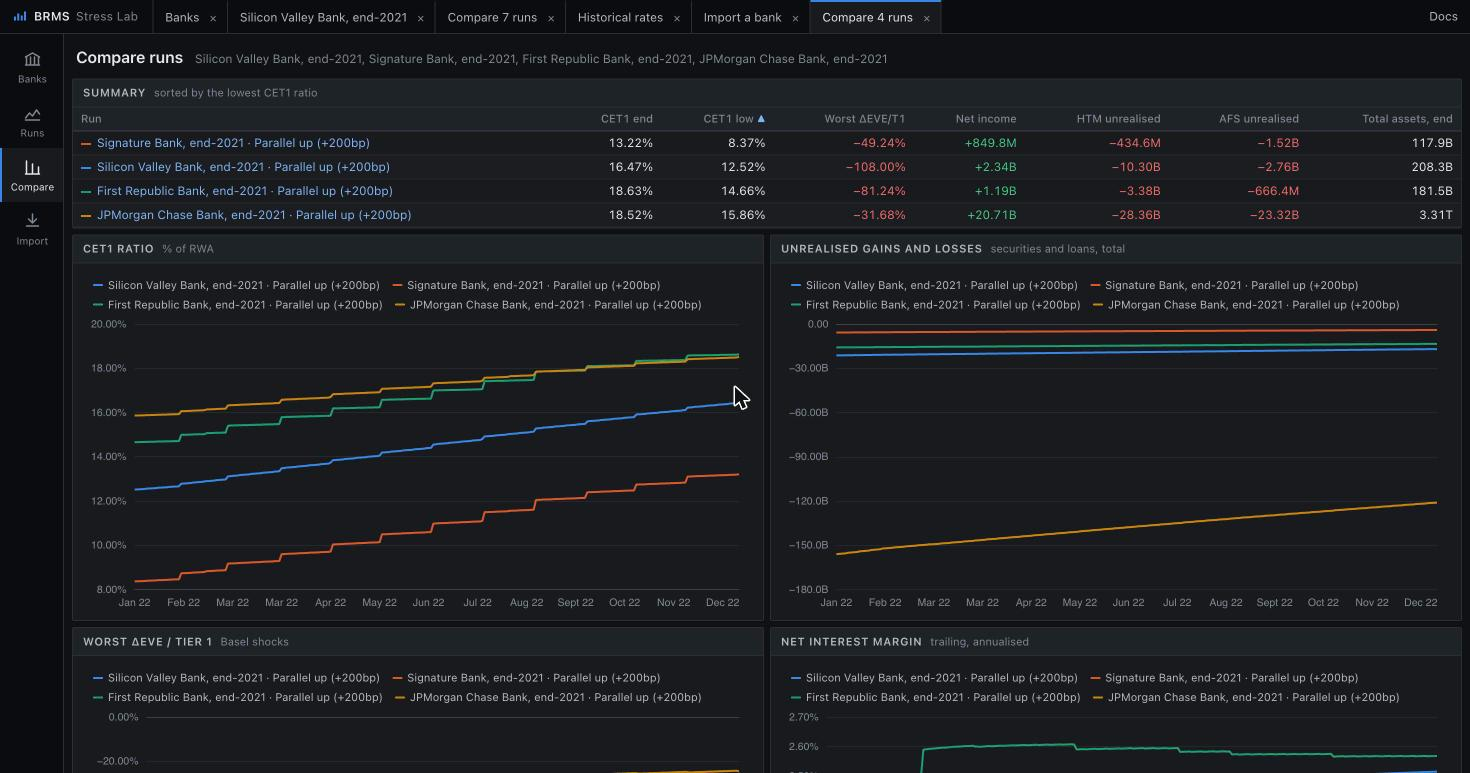
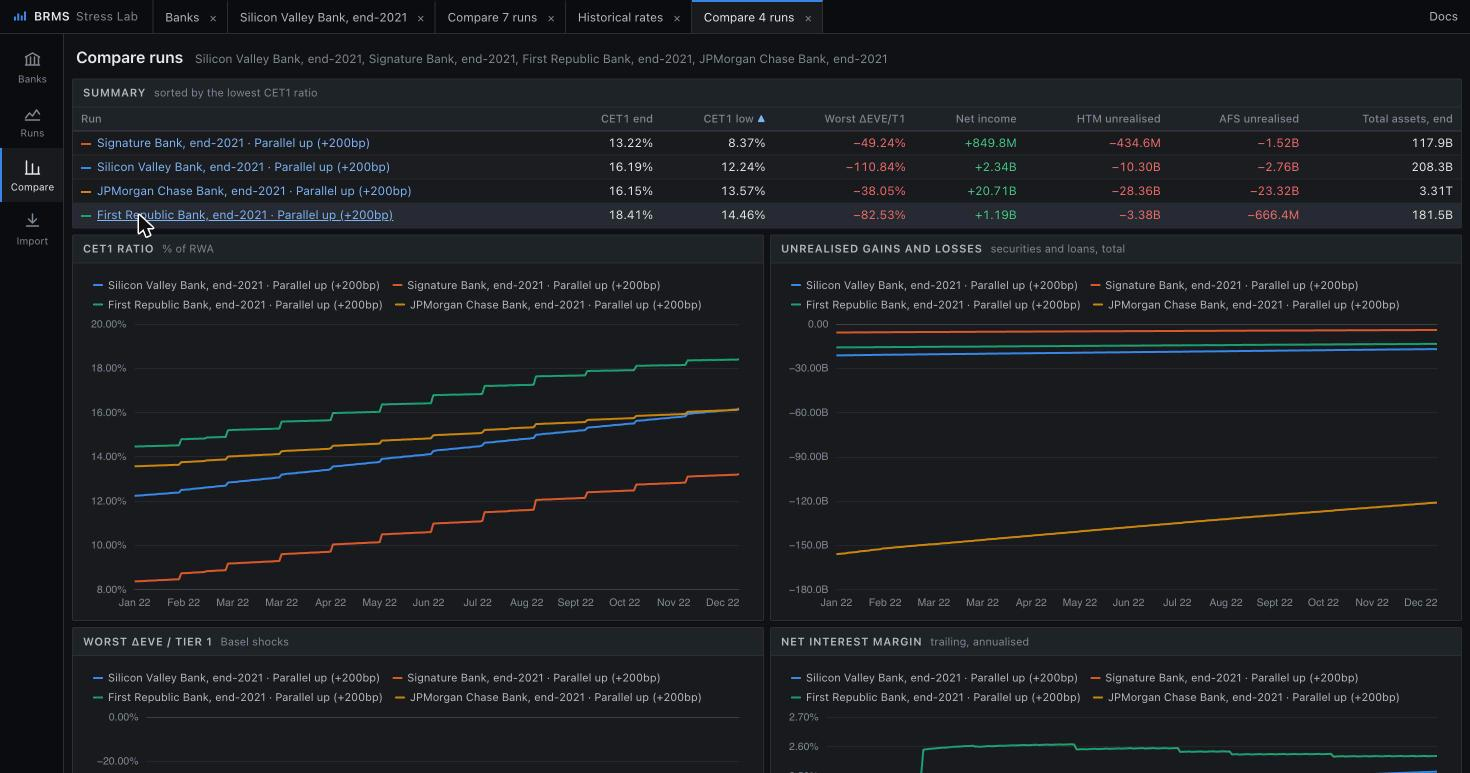
docs: numbers and screenshots after the intangibles change; journal screenshot

diff --git a/docs/lab/tutorials/basel-shocks.md b/docs/lab/tutorials/basel-shocks.md
@@ -36,8 +36,8 @@ finish. The summary table is sorted by each run's lowest CET1 ratio. Look at:
 - **HTM unrealised**: the parallel-up shock costs SVB −$10.3bn on HTM securities, and the
   actual path of 2022 cost −$12.7bn. The real 2022 was worse than the regulatory +200bp shock,
   because the 10-year yield rose about 240bp.
-- **Worst ΔEVE/T1**: SVB's economic value falls by about 100% of Tier 1 in the worst shock. That
-  makes it a clear outlier against the 15% threshold.
+- **Worst ΔEVE/T1**: SVB's economic value falls by more than 100% of Tier 1 in the worst shock.
+  That makes it a clear outlier against the 15% threshold.
 
 ![Seven scenarios for SVB](../../images/lab/compare.jpg)
 
@@ -62,9 +62,9 @@ its bank:
 | Bank | Lowest CET1 ratio | Worst ΔEVE / Tier 1 | HTM unrealised | AFS unrealised |
 |---|---:|---:|---:|---:|
 | Signature Bank | **8.4%** | −49% | −$0.4bn | −$1.5bn |
-| Silicon Valley Bank | 12.5% | **−108%** | −$10.3bn | −$2.8bn |
-| First Republic Bank | 14.7% | −81% | −$3.4bn | −$0.7bn |
-| JPMorgan Chase Bank | 15.9% | −32% | −$28.4bn | −$23.3bn |
+| Silicon Valley Bank | 12.2% | **−111%** | −$10.3bn | −$2.8bn |
+| JPMorgan Chase Bank | 13.6% | −38% | −$28.4bn | −$23.3bn |
+| First Republic Bank | 14.5% | −83% | −$3.4bn | −$0.7bn |
 
 How to read it:
 
@@ -74,8 +74,9 @@ How to read it:
   securities make it the most exposed, losing more than its whole Tier 1 capital. First Republic's
   exposure is in long fixed-rate mortgages, which are loans rather than securities: they show up in
   EVE and in loan unrealised losses, not in HTM or AFS.
-- **Size.** JPMorgan's dollar losses are the largest, but against its capital they are the
-  smallest.
+- **Size.** JPMorgan's dollar losses are the largest, but against its capital its economic-value
+  loss is the smallest. Its CET1 ratio is lower than First Republic's because $46bn of goodwill
+  and other intangibles is deducted from its capital.
 
 !!! warning "Deposits in ΔEVE"
     The lab treats deposits as repricing overnight when it computes EVE, so deposits add no value

diff --git a/docs/lab/tutorials/svb-2022.md b/docs/lab/tutorials/svb-2022.md
@@ -47,14 +47,14 @@ Click **Run scenario**.
 | HTM unrealised loss | about −$1bn | **−$12.7bn** (worst: −$14.7bn on 20 Oct) |
 | AFS unrealised loss | about −$0.1bn | **−$3.4bn** |
 | Net income for the year | | **+$2.2bn** |
-| CET1 ratio | 16.0% | **19.5%** |
+| CET1 ratio | 15.7% | **19.2%** |
 
 Look at the **Unrealised gains and losses** chart: the HTM line falls with every rise in the
 10-year yield on the **Treasury yields** chart.
 
 By October the losses on securities alone (about −$18bn) were larger than SVB's entire equity
 ($14.9bn). If SVB had had to sell everything, it would have been insolvent. Yet its CET1 ratio
-**rose**, from 16.0% to 19.5%, because:
+**rose**, from 15.7% to 19.2%, because:
 
 1. HTM losses are not in the books at all (amortised cost);
 2. AFS losses are in AOCI, but the **AOCI filter** removes AOCI from CET1, an option US banks
@@ -76,9 +76,9 @@ Run it. Now:
 
 | | AOCI filter on | AOCI counted |
 |---|---:|---:|
-| CET1 ratio at start | 16.0% | 15.7% |
-| Lowest CET1 ratio | 16.0% (on day 1) | **14.0%** (14 Jun 2022) |
-| CET1 ratio at end | 19.5% | 15.5% |
+| CET1 ratio at start | 15.7% | 15.4% |
+| Lowest CET1 ratio | 15.7% (on day 1) | **13.7%** (14 Jun 2022) |
+| CET1 ratio at end | 19.2% | 15.3% |
 
 With AOCI counted, capital falls through the first half of 2022 as AFS losses mount, then
 recovers slowly as profits accumulate. Even then, the much larger HTM loss is still invisible.

diff --git a/docs/lab/quickstart.md b/docs/lab/quickstart.md
@@ -54,7 +54,7 @@ The tiles summarise the year:
 
 | Tile | What it says for SVB in 2022 |
 |---|---|
-| CET1 ratio, end | 19.5%: regulatory capital looked strong… |
+| CET1 ratio, end | 19.2%: regulatory capital looked strong… |
 | HTM unrealised | −$12.7bn: …but its held-to-maturity securities had lost $12.7bn of value |
 | AFS unrealised | −$3.4bn more on available-for-sale securities |
 | Net income | +$2.2bn of profit after costs and tax |

diff --git a/docs/lab/guides/reading-results.md b/docs/lab/guides/reading-results.md
@@ -52,6 +52,8 @@ The **Books** panel shows the bank's accounts on any day of the run:
 - **Positions at end**: each security and loan with its carrying value, amortised cost, fair value
   and unrealised gain or loss on the last day it was held.
 
+![The journal on one day](../../images/lab/journal.jpg)
+
 Tables show amounts as filed: Call Report banks in **USD thousands** (the panel says so).
 
 ## Comparing runs

diff --git a/docs/lab/tutorials/bank-file.md b/docs/lab/tutorials/bank-file.md
@@ -84,7 +84,7 @@ An agency mortgage pass-through and a municipal bond:
 ```
 
 The MBS pool's prepayments speed up when mortgage rates fall and slow when they rise; see the
-[bank file reference](../reference/bank-file.md#mortgage-backed-security).
+[bank file reference](../reference/bank-file.md#mortgage_backed_security).
 
 ## Step 4: loans
 
